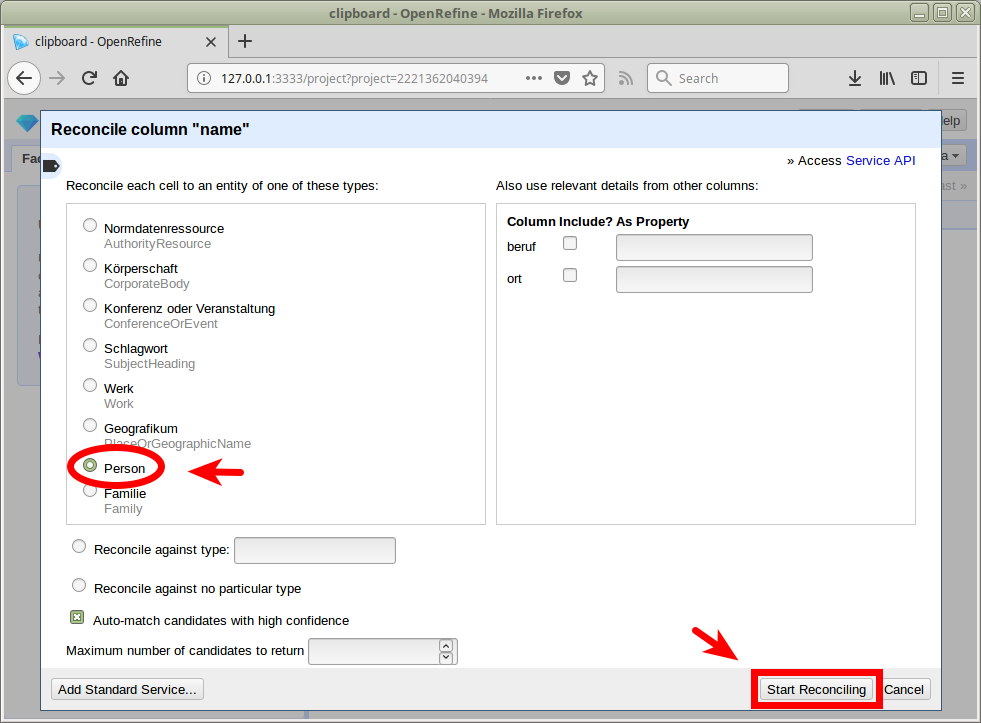
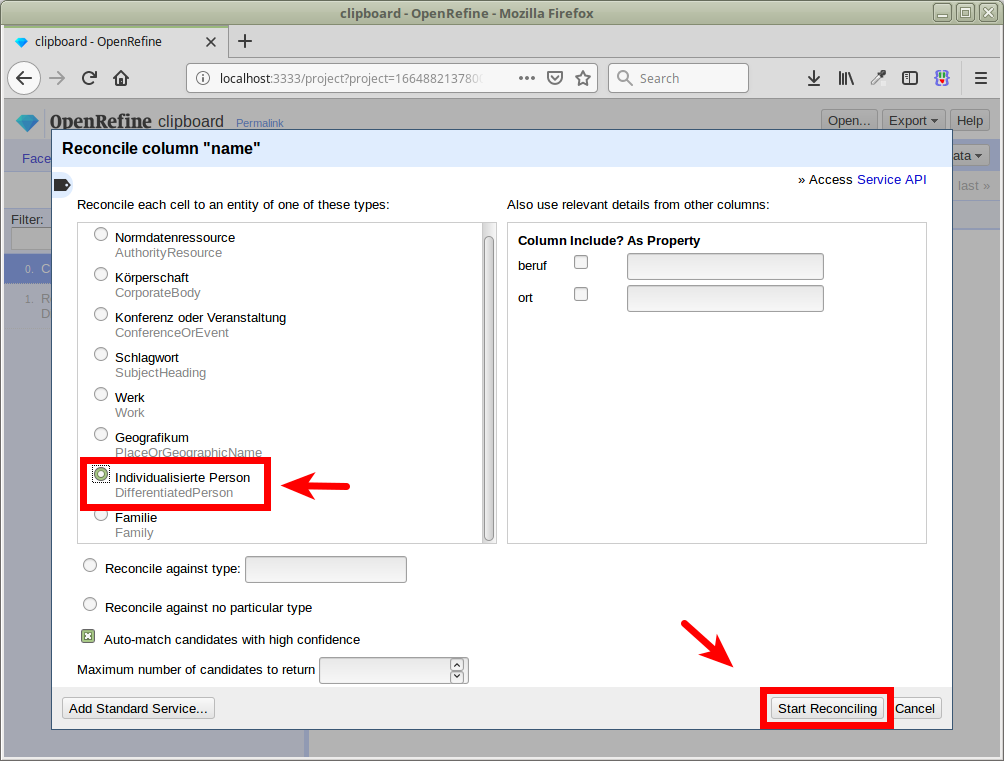
Update lobid-gnd reconciliation documentation
Person is replaced by DifferentiatedPerson, mention custom types

See https://github.com/hbz/lobid-gnd/issues/193

Changed region(s): [[0.0, 0.0304, 1.0, 1.0], [0.3364, 0.0, 0.6116, 0.0304], [0.9174, 0.0, 1.0, 0.0304]]

diff --git a/_posts/2018-08-27-openrefine.md b/_posts/2018-08-27-openrefine.md
@@ -42,9 +42,13 @@ Paste `https://lobid.org/gnd/reconcile` as the service URL:
 
 ![6](/images/2018-08-27-openrefine/06-service-url.png)
 
-Collapse the drawer on the left hand side by clicking the newly added service. As our list for reconciliation consists solely of personal names, we now select `Person` to reconcile only against GND entries of type `Person`:
+Collapse the drawer on the left hand side by clicking the newly added service. As our list for reconciliation consists solely of personal names, we now select `DifferentiatedPerson` to reconcile only against GND entries of that type:
 
-![7](/images/2018-08-27-openrefine/07-type.png)
+![7-1](/images/2018-08-27-openrefine/07-type.png)
+
+Optionally, we could reconcile against a type that is not suggested by selecting "Reconcile against type" and specifying the type, e.g. `BuildingOrMemorial`:
+
+![7-2](/images/2018-08-27-openrefine/07-type-custom.png)
 
 For real-world data it can make sense to pass additional data from other columns to improve the reconciliation results (the value in the text box is arbitrary here, but must not be empty):
 
